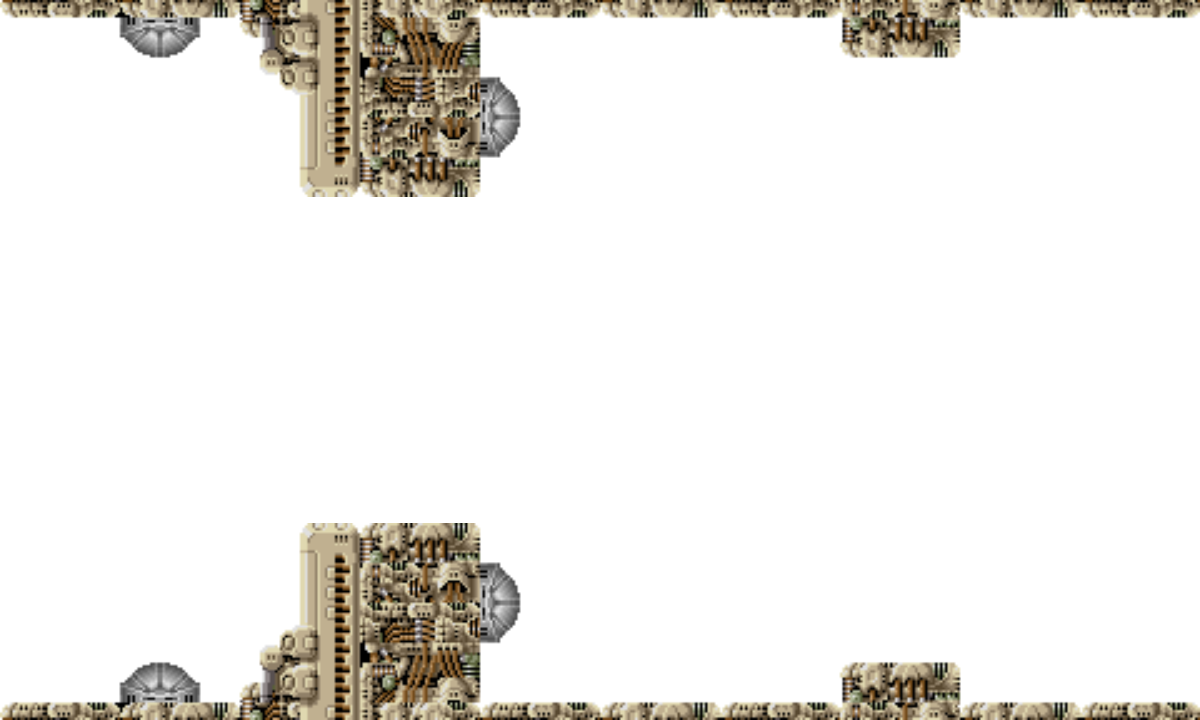
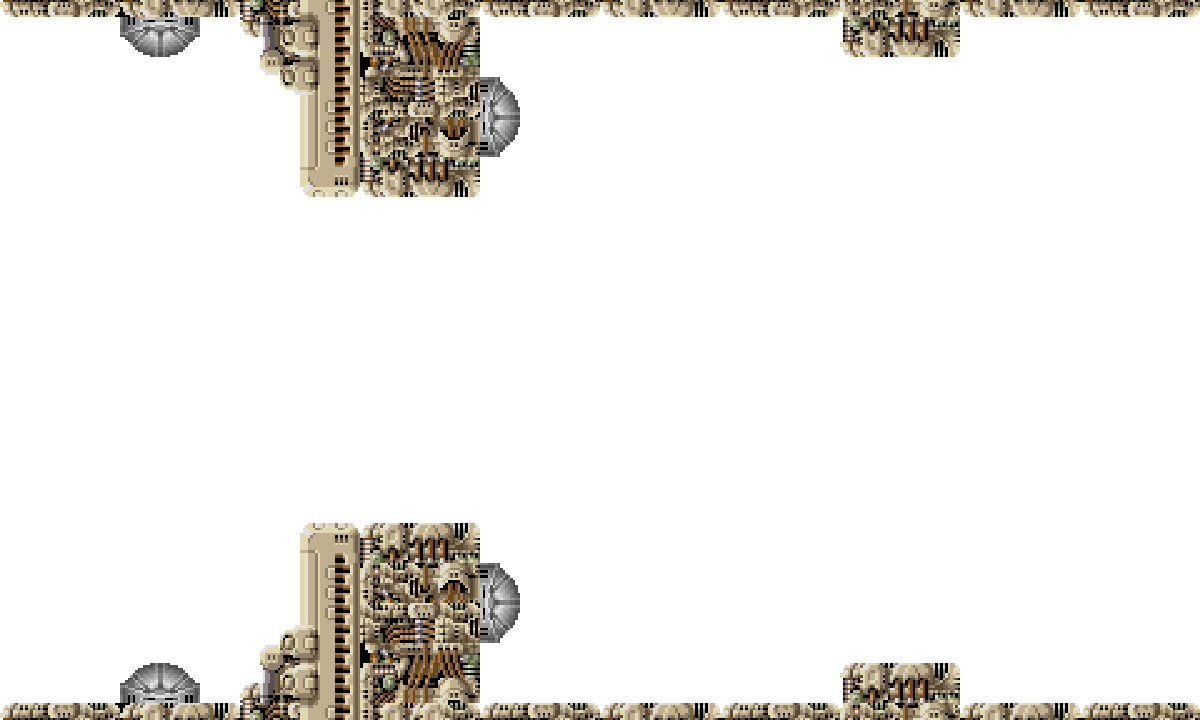
gerði veggi 2 og 3 og uppfærði gæði

Changed region(s): [[0.0, 0.0, 1.0, 0.275], [0.0, 0.7333, 1.0, 1.0]]

diff --git a/environmentManager.js b/environmentManager.js
@@ -53,11 +53,42 @@ _generateWalls : function() {
         hasSpawned : false
     });
 
-    
+    var Bckgr2 = this._createWallBckgr(2);
+    var collisionSet2 = [];
+    collisionSet2.push(new Wall(148+cw,0,475,56));
+    collisionSet2.push(new Wall(360+cw,523,179,197));
+    collisionSet2.push(new Wall(940+cw,0,671,135));
+    collisionSet2.push(new Wall(940+cw,135,176,59));
+    collisionSet2.push(new Wall(1493+cw,135,118,59));
+    collisionSet2.push(new Wall(1012+cw,621,120,99));
+    collisionSet2.push(new Wall(1448+cw,661,474,59));
+    this._wallCmbs.push({
+        Background : Bckgr2,
+        Walls : collisionSet2,
+        hasSpawned : false
+    });
+
+    var Bckgr3 = this._createWallBckgr(3);
+    var collisionSet3 = [];
+    collisionSet3.push(new Wall(416+cw,0,441,77));
+    collisionSet3.push(new Wall(416+cw,643,441,77));
+    collisionSet3.push(new Wall(857+cw,0,124,152));
+    collisionSet3.push(new Wall(857+cw,568,124,152));
+    collisionSet3.push(new Wall(981+cw,0,25,120));
+    collisionSet3.push(new Wall(981+cw,600,25,120));
+    collisionSet3.push(new Wall(1006+cw,0,25,98));
+    collisionSet3.push(new Wall(1006+cw,622,25,98));
+    collisionSet3.push(new Wall(1031+cw,0,23,75));
+    collisionSet3.push(new Wall(1031+cw,645,23,75));
+    this._wallCmbs.push({
+        Background : Bckgr3,
+        Walls : collisionSet3,
+        hasSpawned : false
+    });
    
 },
 
-_spawnWall : function() {
+_timeline : function() {
     if (g_XTime >= 0 && !this._wallCmbs[0].hasSpawned) {
         var eWall = this._wallCmbs[0];
         this._backgrounds.push(eWall.Background);
@@ -66,6 +97,26 @@ _spawnWall : function() {
         };
         eWall.hasSpawned = true;
     };
+
+    if (g_XTime >= this._wallCmbs[0].Background.sprite.width - 20
+         && !this._wallCmbs[1].hasSpawned) {
+        var eWall = this._wallCmbs[1];
+        this._backgrounds.push(eWall.Background);
+        for (var i = 0; i < eWall.Walls.length; i++) {
+            this._walls.push(eWall.Walls[i]);
+        };
+        eWall.hasSpawned = true;
+    };
+
+    if (g_XTime >= this._wallCmbs[1].Background.sprite.width - 100
+        && !this._wallCmbs[1].hasSpawned) {
+       var eWall = this._wallCmbs[2];
+       this._backgrounds.push(eWall.Background);
+       for (var i = 0; i < eWall.Walls.length; i++) {
+           this._walls.push(eWall.Walls[i]);
+       };
+       eWall.hasSpawned = true;
+   };
 },
 
 _createWallBckgr : function(wallNumber) {
@@ -139,7 +190,7 @@ toggleHalt : function() {
 update : function(du) {
 	
     this._generateDust(du);
-    this._spawnWall(du);
+    this._timeline();
 
     for (var c = 0; c < this._categories.length; ++c) {
 
